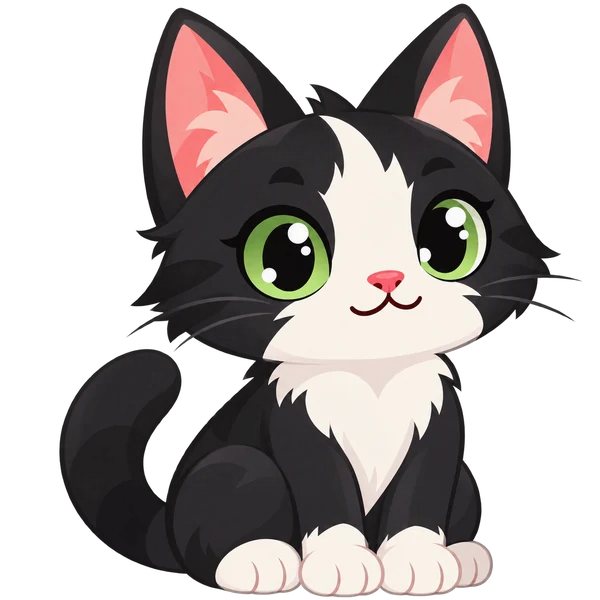
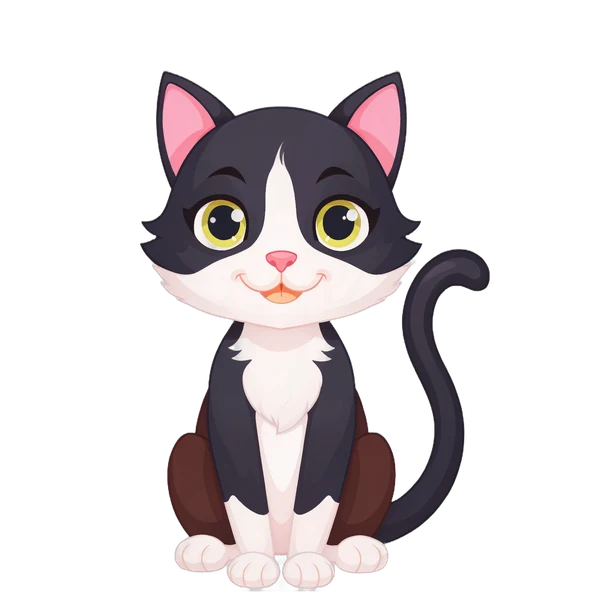
PLEX PLAY 1.16.2: 12 ilustraciones nuevas de gatos con uniforme original y accesorios calibrados por gato
Claude-Session: https://claude.ai/code/session_01BYK6TttEmKGVnbueoshFmr

diff --git a/index.html b/index.html
@@ -3065,7 +3065,7 @@ Règle du cours : ${stripTags(it.why||"")}`;try{await sample(prompt,{modelTier:"
 <li>Heures : <i>onze heures dix</i> = 11 h 10 ; <i>midi et demi</i> = 12 h 30.</li>
 <li>Proportions : <i>trente pour cent d'entre eux, plus de la moitié, un sur trois</i>.</li>
 <li><i>X contre Y l'année précédente</i> : passage de Y à X.</li>
-<li>Notez toujours en chiffres pendant l'écoute.</li></ul>`,items:{0:{ask:"Écoutez l'annonce, puis choisissez la date exacte. Attention au jour et au nombre.",ctx:"Un secrétariat d'université annonce la date de l'épreuve écrite.",why:"On entend <i>le mercredi trois septembre</i> → <b>mercredi 3 septembre</b>. Ne confondez pas <i>trois</i> avec <i>treize</i> (13) ou <i>vingt-trois</i> (23), ni <i>mercredi</i> avec <i>mardi</i>."},1:{ask:"Écoutez l'annonce, puis choisissez l'heure du rendez-vous.",ctx:"On vous donne rendez-vous pour une séance de préparation à l'oral.",q:"À quelle heure est le rendez-vous ?",why:"<i>Onze heures dix</i> = <b>11 h 10</b> : le premier nombre donne l'heure, le second les minutes. <i>10 h 11</i> inverse l'ordre ; <i>11 h 20</i> serait <i>onze heures vingt</i>."},2:{ask:"Écoutez la phrase, puis écrivez <b>seulement le pourcentage en chiffres</b>, sans le symbole %.",ctx:"Un reportage sur la santé des étudiants présente une statistique sur le stress.",why:"<i>Trente pour cent d'entre eux</i> = <b>30</b> % : près d'un étudiant sur trois. <i>D'entre eux</i> indique une partie d'un groupe (<i>de entre ellos</i> en espagnol : même idée)."},3:{ask:"Écoutez la phrase, puis choisissez l'évolution correcte : quelle est la valeur de départ et quelle est la valeur d'arrivée ?",ctx:"Un journaliste commente le baromètre annuel sur le bonheur au travail.",q:"Quelle évolution du nombre de salariés heureux avez-vous entendue ?",why:"On entend <i>69 % … contre 77 % l'année précédente</i> : l'année précédente, on était à 77 %, aujourd'hui à 69 % → <b>de 77 % à 69 %</b>, une baisse. <i>Contre</i> introduit l'ancienne valeur ; l'erreur typique est de suivre l'ordre d'écoute (69 puis 77)."},4:{ask:"Écoutez la phrase, puis choisissez la proportion de salariés concernés par le télétravail.",ctx:"Un reportage présente le télétravail dans l'entreprise Alcatel.",q:"Quelle proportion des effectifs d'Alcatel télétravaille ?",why:"<i>Vingt-cinq pour cent</i> = <b>25 %</b>, soit un quart des effectifs. Ne confondez pas avec <i>trente-cinq</i> (35) ou <i>soixante-quinze</i> (75)."},5:{ask:"Écoutez la phrase, puis choisissez la fourchette (entre deux valeurs) que vous avez entendue.",ctx:"Un sociologue parle des Français qui refusent d'avoir la télévision chez eux.",why:"<i>Deux à trois pour cent</i> = <b>2 à 3 %</b> : une toute petite minorité. <i>Douze</i> (12) et <i>vingt-deux</i> (22) commencent par un son différent ; écoutez bien le premier mot."},6:{ask:"Écoutez la phrase, puis choisissez la tranche d'âge des réfractaires les plus jeunes.",ctx:"Suite du reportage sur les Français qui refusent la télévision.",q:"Quel âge ont les plus jeunes réfractaires à la télévision ?",why:"<i>Entre vingt-cinq et trente-cinq ans</i> = <b>25-35 ans</b>. La structure <i>entre… et…</i> donne les deux limites de la tranche d'âge ; <i>soixante-cinq</i> (65) serait incohérent avec « les plus jeunes »."}}}};LESSONS.forEach(l=>{const p=LP[l.id];p&&(p.theory&&(l.theory=p.theory),(l.items||[]).forEach((it,i)=>{const x=p.items&&p.items[i];x&&(x.ask&&(it.ask=x.ask),x.ctx&&(it.ctx=x.ctx),x.why&&(it.why=x.why),x.q&&!(it.k==="spot"||it.k==="listen")&&(it.q=x.q))}))})}();const _itemHTMLc=itemHTML;itemHTML=function(it,st){let out=_itemHTMLc(it,st);return!it||!it.ask?out:(it.k==="spot"&&(out=out.replace('<p class="q">Toca la palabra que contiene el error.</p>',"")),it.k==="listen"&&(out=out.replace(/<p class="q">(Escribe en cifras el número que oyes\.|Escribe lo que oyes\.)<\/p>/,"")),it.k==="order"&&!it.q&&(out=out.replace(/<p class="q">Ordena los elementos\.<\/p>/,"")),`<p class="ask">${it.ask}</p>`+(it.ctx?`<div class="ctx"><span>Contexto</span><p>${it.ctx}</p></div>`:"")+out)},window.__UILANG="es";const APP_VERSION="1.16.1",DAY=864e5,dayN=(d=new Date)=>Math.round(new Date(d.getFullYear(),d.getMonth(),d.getDate()).getTime()/DAY),dayOfKey=k=>{const[y,m,d]=String(k).split("-").map(Number);return dayN(new Date(y,(m||1)-1,d||1))},SRS_INT=[1,1,3,7,14,30,60],isLessonKey=k=>/^[^:]+:\d+$/.test(k);function srsState(){return(!S.srs||typeof S.srs!="object")&&(S.srs={}),S.srs}function srsSeed(){const R=srsState();LESSONS.forEach(l=>{const r=S.lessons[l.id];if(!r||!r.done||!l.items)return;const base=r.at?dayOfKey(r.at):dayN();l.items.forEach((_,i)=>{const k=l.id+":"+i;R[k]||(R[k]={b:1,d:base+1,n:0})})})}function srsUpd(key,ok){const R=srsState(),v=R[key]||{b:0,d:dayN(),n:0};ok?(v.b=Math.min(v.b+1,SRS_INT.length-1),v.d=dayN()+SRS_INT[v.b]):(v.b=0,v.d=dayN()+1),v.n=(v.n||0)+1,R[key]=v}function srsDue(){const t=dayN(),R=srsState();return Object.keys(R).filter(k=>R[k].d<=t&&getItem(k)).sort((a,b)=>R[a].d-R[b].d||R[a].b-R[b].b)}function practiceKeys(){const due=srsDue().slice(0,12),err=Object.keys(S.carnet).filter(k=>getItem(k)&&!due.includes(k)).slice(0,Math.max(3,15-due.length));return due.concat(err)}function startPractice(){const keys=practiceKeys();if(!keys.length)return toast("No tienes repasos pendientes. ¡Vuelve mañana!");start({mode:"review",title:"Repaso del día",eyebrow:"Repaso espaciado · lo que toca repasar hoy",steps:shuffle(keys).map(k=>({kind:"item",key:k}))})}function lessonMastery(l){const n=(l.items||[]).length;if(!n)return null;const R=srsState(),t=dayN();let s=0,seen=0,due=0;return l.items.forEach((_,i)=>{const v=R[l.id+":"+i];if(!v)return;seen++;let b=Math.min(v.b,4);v.d<t&&(due++,t-v.d>SRS_INT[Math.min(v.b,6)]&&(b=Math.max(v.b>=1?1:0,b-1))),s+=b/4}),{pct:Math.round(s/n*100),seen,due}}const mLabel=p=>p>=80?"Dominada":p>=50?"Bien":p>0?"En progreso":"Por repasar",_pStreakBase=streak;streak=function(){const G=gEnsure(),g=G.goalXP,fz=new Set(G.frozen||[]),ok=d2=>dayXP(d2)>=g||fz.has(dkey(d2));let n=0;const d=new Date;for(ok(d)||d.setDate(d.getDate()-1);ok(d);)dayXP(d)>=g&&n++,d.setDate(d.getDate()-1);return n};function freezeApply(){const G=gEnsure();if(!(G.freeze>0))return;const g=G.goalXP,fz=new Set(G.frozen||[]),y=new Date;y.setDate(y.getDate()-1);const missed=[],d=new Date(y);for(let i=0;i<10&&!(dayXP(d)>=g||fz.has(dkey(d)));i++)missed.push(dkey(d)),d.setDate(d.getDate()-1);!missed.length||missed.length>G.freeze||(dayXP(d)>=g||fz.has(dkey(d)))&&(G.frozen=(G.frozen||[]).concat(missed).slice(-30),G.freeze-=missed.length,save(!0),setTimeout(()=>gModal(`<small class="gm-k">Protector de racha</small><div class="gm-badge" style="--c:#0EA5E9">${PRO_IC.shield}</div><h2 class="gm-t">Tu racha sigue viva</h2>
+<li>Notez toujours en chiffres pendant l'écoute.</li></ul>`,items:{0:{ask:"Écoutez l'annonce, puis choisissez la date exacte. Attention au jour et au nombre.",ctx:"Un secrétariat d'université annonce la date de l'épreuve écrite.",why:"On entend <i>le mercredi trois septembre</i> → <b>mercredi 3 septembre</b>. Ne confondez pas <i>trois</i> avec <i>treize</i> (13) ou <i>vingt-trois</i> (23), ni <i>mercredi</i> avec <i>mardi</i>."},1:{ask:"Écoutez l'annonce, puis choisissez l'heure du rendez-vous.",ctx:"On vous donne rendez-vous pour une séance de préparation à l'oral.",q:"À quelle heure est le rendez-vous ?",why:"<i>Onze heures dix</i> = <b>11 h 10</b> : le premier nombre donne l'heure, le second les minutes. <i>10 h 11</i> inverse l'ordre ; <i>11 h 20</i> serait <i>onze heures vingt</i>."},2:{ask:"Écoutez la phrase, puis écrivez <b>seulement le pourcentage en chiffres</b>, sans le symbole %.",ctx:"Un reportage sur la santé des étudiants présente une statistique sur le stress.",why:"<i>Trente pour cent d'entre eux</i> = <b>30</b> % : près d'un étudiant sur trois. <i>D'entre eux</i> indique une partie d'un groupe (<i>de entre ellos</i> en espagnol : même idée)."},3:{ask:"Écoutez la phrase, puis choisissez l'évolution correcte : quelle est la valeur de départ et quelle est la valeur d'arrivée ?",ctx:"Un journaliste commente le baromètre annuel sur le bonheur au travail.",q:"Quelle évolution du nombre de salariés heureux avez-vous entendue ?",why:"On entend <i>69 % … contre 77 % l'année précédente</i> : l'année précédente, on était à 77 %, aujourd'hui à 69 % → <b>de 77 % à 69 %</b>, une baisse. <i>Contre</i> introduit l'ancienne valeur ; l'erreur typique est de suivre l'ordre d'écoute (69 puis 77)."},4:{ask:"Écoutez la phrase, puis choisissez la proportion de salariés concernés par le télétravail.",ctx:"Un reportage présente le télétravail dans l'entreprise Alcatel.",q:"Quelle proportion des effectifs d'Alcatel télétravaille ?",why:"<i>Vingt-cinq pour cent</i> = <b>25 %</b>, soit un quart des effectifs. Ne confondez pas avec <i>trente-cinq</i> (35) ou <i>soixante-quinze</i> (75)."},5:{ask:"Écoutez la phrase, puis choisissez la fourchette (entre deux valeurs) que vous avez entendue.",ctx:"Un sociologue parle des Français qui refusent d'avoir la télévision chez eux.",why:"<i>Deux à trois pour cent</i> = <b>2 à 3 %</b> : une toute petite minorité. <i>Douze</i> (12) et <i>vingt-deux</i> (22) commencent par un son différent ; écoutez bien le premier mot."},6:{ask:"Écoutez la phrase, puis choisissez la tranche d'âge des réfractaires les plus jeunes.",ctx:"Suite du reportage sur les Français qui refusent la télévision.",q:"Quel âge ont les plus jeunes réfractaires à la télévision ?",why:"<i>Entre vingt-cinq et trente-cinq ans</i> = <b>25-35 ans</b>. La structure <i>entre… et…</i> donne les deux limites de la tranche d'âge ; <i>soixante-cinq</i> (65) serait incohérent avec « les plus jeunes »."}}}};LESSONS.forEach(l=>{const p=LP[l.id];p&&(p.theory&&(l.theory=p.theory),(l.items||[]).forEach((it,i)=>{const x=p.items&&p.items[i];x&&(x.ask&&(it.ask=x.ask),x.ctx&&(it.ctx=x.ctx),x.why&&(it.why=x.why),x.q&&!(it.k==="spot"||it.k==="listen")&&(it.q=x.q))}))})}();const _itemHTMLc=itemHTML;itemHTML=function(it,st){let out=_itemHTMLc(it,st);return!it||!it.ask?out:(it.k==="spot"&&(out=out.replace('<p class="q">Toca la palabra que contiene el error.</p>',"")),it.k==="listen"&&(out=out.replace(/<p class="q">(Escribe en cifras el número que oyes\.|Escribe lo que oyes\.)<\/p>/,"")),it.k==="order"&&!it.q&&(out=out.replace(/<p class="q">Ordena los elementos\.<\/p>/,"")),`<p class="ask">${it.ask}</p>`+(it.ctx?`<div class="ctx"><span>Contexto</span><p>${it.ctx}</p></div>`:"")+out)},window.__UILANG="es";const APP_VERSION="1.16.2",DAY=864e5,dayN=(d=new Date)=>Math.round(new Date(d.getFullYear(),d.getMonth(),d.getDate()).getTime()/DAY),dayOfKey=k=>{const[y,m,d]=String(k).split("-").map(Number);return dayN(new Date(y,(m||1)-1,d||1))},SRS_INT=[1,1,3,7,14,30,60],isLessonKey=k=>/^[^:]+:\d+$/.test(k);function srsState(){return(!S.srs||typeof S.srs!="object")&&(S.srs={}),S.srs}function srsSeed(){const R=srsState();LESSONS.forEach(l=>{const r=S.lessons[l.id];if(!r||!r.done||!l.items)return;const base=r.at?dayOfKey(r.at):dayN();l.items.forEach((_,i)=>{const k=l.id+":"+i;R[k]||(R[k]={b:1,d:base+1,n:0})})})}function srsUpd(key,ok){const R=srsState(),v=R[key]||{b:0,d:dayN(),n:0};ok?(v.b=Math.min(v.b+1,SRS_INT.length-1),v.d=dayN()+SRS_INT[v.b]):(v.b=0,v.d=dayN()+1),v.n=(v.n||0)+1,R[key]=v}function srsDue(){const t=dayN(),R=srsState();return Object.keys(R).filter(k=>R[k].d<=t&&getItem(k)).sort((a,b)=>R[a].d-R[b].d||R[a].b-R[b].b)}function practiceKeys(){const due=srsDue().slice(0,12),err=Object.keys(S.carnet).filter(k=>getItem(k)&&!due.includes(k)).slice(0,Math.max(3,15-due.length));return due.concat(err)}function startPractice(){const keys=practiceKeys();if(!keys.length)return toast("No tienes repasos pendientes. ¡Vuelve mañana!");start({mode:"review",title:"Repaso del día",eyebrow:"Repaso espaciado · lo que toca repasar hoy",steps:shuffle(keys).map(k=>({kind:"item",key:k}))})}function lessonMastery(l){const n=(l.items||[]).length;if(!n)return null;const R=srsState(),t=dayN();let s=0,seen=0,due=0;return l.items.forEach((_,i)=>{const v=R[l.id+":"+i];if(!v)return;seen++;let b=Math.min(v.b,4);v.d<t&&(due++,t-v.d>SRS_INT[Math.min(v.b,6)]&&(b=Math.max(v.b>=1?1:0,b-1))),s+=b/4}),{pct:Math.round(s/n*100),seen,due}}const mLabel=p=>p>=80?"Dominada":p>=50?"Bien":p>0?"En progreso":"Por repasar",_pStreakBase=streak;streak=function(){const G=gEnsure(),g=G.goalXP,fz=new Set(G.frozen||[]),ok=d2=>dayXP(d2)>=g||fz.has(dkey(d2));let n=0;const d=new Date;for(ok(d)||d.setDate(d.getDate()-1);ok(d);)dayXP(d)>=g&&n++,d.setDate(d.getDate()-1);return n};function freezeApply(){const G=gEnsure();if(!(G.freeze>0))return;const g=G.goalXP,fz=new Set(G.frozen||[]),y=new Date;y.setDate(y.getDate()-1);const missed=[],d=new Date(y);for(let i=0;i<10&&!(dayXP(d)>=g||fz.has(dkey(d)));i++)missed.push(dkey(d)),d.setDate(d.getDate()-1);!missed.length||missed.length>G.freeze||(dayXP(d)>=g||fz.has(dkey(d)))&&(G.frozen=(G.frozen||[]).concat(missed).slice(-30),G.freeze-=missed.length,save(!0),setTimeout(()=>gModal(`<small class="gm-k">Protector de racha</small><div class="gm-badge" style="--c:#0EA5E9">${PRO_IC.shield}</div><h2 class="gm-t">Tu racha sigue viva</h2>
     <p class="gm-sub">Usaste ${missed.length===1?"un protector":missed.length+" protectores"} para cubrir ${missed.length===1?"el día que faltaste":"los días que faltaste"}. Te ${G.freeze===1?"queda 1":"quedan "+G.freeze}.</p>
     <button class="gbtn wide" data-g="close" data-autofocus>Continuar</button>`,"m-freeze"),600))}const _pAfter=gAfterProgress;gAfterProgress=function(){const G=gEnsure(),st=streak();return st>0&&st%7===0&&G.freezeAwardAt!==st&&(G.freeze||0)<2&&(G.freeze=(G.freeze||0)+1,G.freezeAwardAt=st,setTimeout(()=>toast("¡"+st+" días seguidos! Ganaste un protector de racha."),900)),_pAfter.apply(this,arguments)};const _pWeekDots=weekDots;weekDots=function(){const r=_pWeekDots(),fz=new Set(gEnsure().frozen||[]),now=new Date,dow=(now.getDay()+6)%7,mon=new Date(now);return mon.setDate(now.getDate()-dow),r.map((x,i)=>{const d=new Date(mon);return d.setDate(mon.getDate()+i),fz.has(dkey(d))?Object.assign({},x,{st:"frz"}):x})};const _pRecord=record;record=function(st,it,ok){const before=P?P.newCarnet:0,plc=P&&P.mode==="placement";_pRecord.apply(this,arguments);try{if(plc){const last=P.steps[P.steps.length-1];last&&last.retry&&last.key===st.key&&P.steps.pop(),P.newCarnet>before&&(delete S.carnet[st.key],P.newCarnet=before),(P.plc||(P.plc={}))[P.i]=ok,save()}else!st.retry&&isLessonKey(st.key)&&getItem(st.key)&&(srsUpd(st.key,ok),save())}catch{}};const PLC_ORDER=["a1","a2","b11","b12","b21","rem","prog","c12","lit"];function startPlacement(){const steps=[];PLC_ORDER.forEach(tr=>{const pool=[];LESSONS.filter(l=>l.track===tr&&!l.special&&!l.project&&l.items).forEach(l=>l.items.forEach((it,i)=>{it.k==="choice"&&it.o&&it.o.length>=3&&pool.push({key:l.id+":"+i,u:tr})})),shuffle(pool).slice(0,tr==="rem"||tr==="prog"?3:2).forEach(p=>steps.push({kind:"item",key:p.key,u:p.u}))}),steps.length&&start({mode:"placement",title:"Prueba de nivel",eyebrow:"Prueba de nivel · de A1 a C1 · sin vidas: responde lo que sepas",steps})}function placementResult(){const byU={};P.steps.forEach((s,i)=>{if(!s.u)return;const b=byU[s.u]||(byU[s.u]={n:0,ok:0});b.n++,P.plc&&P.plc[i]&&b.ok++});const tracks=PLC_ORDER.filter(t=>byU[t]);let course=tracks.find(t=>byU[t].ok/byU[t].n<.75)||tracks[tracks.length-1];const weak=tracks.filter(t=>byU[t].ok<byU[t].n),nl=LESSONS.find(x=>x.track===course&&!x.special&&!(S.lessons[x.id]&&S.lessons[x.id].done)),tot=Object.values(byU).reduce((a,v)=>a+v.n,0),ok=Object.values(byU).reduce((a,v)=>a+v.ok,0);return{at:dkey(),pct:tot?Math.round(ok/tot*100):0,weak,course,byU,rec:nl?[nl.id]:[],units:tracks.length}}function guideData(){const out=[];return LESSONS.filter(l=>COURSE_IDS.has(l.track)&&!l.special&&l.theory).forEach(l=>{const m=/<p><b>(?:À retenir|Para recordar)<\/b><\/p>\s*<ul>([\s\S]*?)<\/ul>/.exec(l.theory);m&&out.push({l,html:"<ul>"+m[1]+"</ul>",txt:(l.title+" "+l.unit+" "+m[1].replace(/<[^>]+>/g," ")).toLowerCase()})}),out}let guideQ="";function gGuia(){const data=guideData(),q=guideQ.trim().toLowerCase(),list=data.filter(d=>!q||d.txt.includes(q));let lastU="";const items=list.map(d=>{const u=((TRACKS.find(t=>t.id===d.l.track)||{}).label||d.l.sec)+" · "+d.l.unit,head=u!==lastU?`<h3 class="gd-u">${gh(u)}</h3>`:"";lastU=u;const m=lessonMastery(d.l);return head+`<article class="gcard gd-card" lang="fr"><div class="gd-h"><b>${gh(d.l.title)}</b>${m&&m.seen?`<span class="mst-t">${mLabel(m.pct)} · ${m.pct} %</span>`:""}</div>${d.html}
       <div class="gd-a" lang="es"><button class="gbtn ghost sm" data-open="${d.l.id}">Repasar la lección</button></div></article>`}).join("");return`<section class="gview gguia"><h1>Guía rápida</h1>
@@ -3289,6 +3289,6 @@ Règle du cours : ${stripTags(it.why||"")}`;try{await sample(prompt,{modelTier:"
 <script src="js/plx22.js?v=b2dfe5ae"></script>
 <script src="js/plx23.js?v=fcf8ff67"></script>
 
-<script src="js/plx24.js?v=f6b5c20c"></script><script src="js/plx25.js?v=40d05c40"></script><script src="js/plx26.js?v=8cb72720"></script><script src="js/plx27.js?v=613fcb02"></script><script src="js/plx28.js?v=64812249"></script><script src="js/plx29.js?v=2726091d"></script><script src="js/plx30.js?v=0fda45c5"></script><script src="js/plx31.js?v=83efacbc"></script><script src="js/plx32.js?v=338f15e0"></script><script src="js/plx33.js?v=abe702ee"></script><script>"serviceWorker"in navigator&&location.protocol!=="file:"&&addEventListener("load",()=>navigator.serviceWorker.register("sw.js").then(r=>{window.__plxReg=r;r.addEventListener("updatefound",()=>{const w=r.installing;w&&w.addEventListener("statechange",()=>{w.state==="installed"&&navigator.serviceWorker.controller&&(window.__plxUpd=1,dispatchEvent(new Event("plx-update")))})})}).catch(()=>{}));
+<script src="js/plx24.js?v=f6b5c20c"></script><script src="js/plx25.js?v=40d05c40"></script><script src="js/plx26.js?v=8cb72720"></script><script src="js/plx27.js?v=613fcb02"></script><script src="js/plx28.js?v=64812249"></script><script src="js/plx29.js?v=2726091d"></script><script src="js/plx30.js?v=0fda45c5"></script><script src="js/plx31.js?v=83efacbc"></script><script src="js/plx32.js?v=338f15e0"></script><script src="js/plx33.js?v=c45a0c44"></script><script>"serviceWorker"in navigator&&location.protocol!=="file:"&&addEventListener("load",()=>navigator.serviceWorker.register("sw.js").then(r=>{window.__plxReg=r;r.addEventListener("updatefound",()=>{const w=r.installing;w&&w.addEventListener("statechange",()=>{w.state==="installed"&&navigator.serviceWorker.controller&&(window.__plxUpd=1,dispatchEvent(new Event("plx-update")))})})}).catch(()=>{}));
 </script>
 </html>

diff --git a/sw.js b/sw.js
@@ -1,6 +1,6 @@
 /* PLEX PLAY — service worker (v1.11.0) */
-const CORE="pc-core-1.16.1", AUDIO="pc-audio-1";
-const PRECACHE=["./", "index.html", "fonts/figtree-latin.woff2", "fonts/figtree-latin-ext.woff2", "fonts/bricolage-latin.woff2", "fonts/bricolage-latin-ext.woff2", "cursos.js", "explica.js", "audio2.js", "extra.js", "js/plx18.js", "js/plx19.js", "js/plx20.js", "js/plx21.js", "js/plx22.js", "js/plx23.js", "js/plx24.js", "js/plx25.js", "js/plx26.js", "js/plx27.js", "js/plx28.js", "js/plx29.js", "js/plx30.js", "js/plx31.js", "js/plx32.js", "js/plx33.js", "carnet.html", "config.js", "backend.js", "vendor/supabase.js", "manifest.webmanifest", "privacy.html", "icons/mz-icon-192.png", "icons/mz-icon-512.png", "icons/mz-maskable-512.png", "icons/mz-apple-touch-icon.png", "icons/mz-favicon-32.png", "img/atras.webp", "img/b-bronce.webp", "img/b-diamante.webp", "img/b-legendario.webp", "img/b-oro.webp", "img/b-plata.webp", "img/bg-biblioteca.webp", "img/bg-cafe.webp", "img/bg-montana.webp", "img/bg-noche.webp", "img/bg-paris.webp", "img/bg-playa.webp", "img/bg-universidad.webp", "img/bloqueado.webp", "img/calendario.webp", "img/card-dia.webp", "img/card-noche.webp", "img/completado.webp", "img/conversacion.webp", "img/crown.webp", "img/d-bench.webp", "img/d-bridge.webp", "img/d-cloud.webp", "img/d-flowers.webp", "img/d-lamp.webp", "img/d-leaves.webp", "img/d-sign.webp", "img/d-sparkle.webp", "img/d-trees.webp", "img/dificil.webp", "img/encurso.webp", "img/escritura.webp", "img/escucha.webp", "img/escudo.webp", "img/estrella.webp", "img/facil.webp", "img/favorito.webp", "img/flame.webp", "img/gear.webp", "img/gem.webp", "img/gramatica.webp", "img/guardar.webp", "img/hito.webp", "img/home.webp", "img/lecciones.webp", "img/lectura.webp", "img/logro.webp", "img/m-actualidad.webp", "img/m-cafe.webp", "img/m-cultura.webp", "img/m-francia.webp", "img/m-inicio.webp", "img/m-trabajo.webp", "img/m-viajes.webp", "img/manzana-icon.webp", "img/mascota.webp", "img/media.webp", "img/music.webp", "img/mz-curioso.webp", "img/mz-duerme.webp", "img/mz-feliz.webp", "img/mz-gafas.webp", "img/mz-hero.webp", "img/mz-hola.webp", "img/mz-juega.webp", "img/mz-lado.webp", "img/mz-vamos.webp", "img/pausa.webp", "img/perfil.webp", "img/regalo.webp", "img/repetir.webp", "img/reto.webp", "img/retos.webp", "img/siguiente.webp", "img/stats.webp", "img/c-paris.webp", "img/c-cafe.webp", "img/c-fonetica.webp", "img/c-calle.webp", "img/c-playa.webp", "img/c-montana.webp", "img/c-bandera.webp", "img/c-libros.webp", "img/c-noche.webp", "img/c-teatro.webp", "img/th-acentos.webp", "img/th-fonetica.webp", "img/th-fundamentos.webp", "img/th-literatura.webp", "img/tienda.webp", "img/vida-off.webp", "img/vida.webp", "img/gatos/esmoquin.webp", "img/gatos/azul-ruso.webp", "img/gatos/plateado.webp"];
+const CORE="pc-core-1.16.2", AUDIO="pc-audio-1";
+const PRECACHE=["./", "index.html", "fonts/figtree-latin.woff2", "fonts/figtree-latin-ext.woff2", "fonts/bricolage-latin.woff2", "fonts/bricolage-latin-ext.woff2", "cursos.js", "explica.js", "audio2.js", "extra.js", "js/plx18.js", "js/plx19.js", "js/plx20.js", "js/plx21.js", "js/plx22.js", "js/plx23.js", "js/plx24.js", "js/plx25.js", "js/plx26.js", "js/plx27.js", "js/plx28.js", "js/plx29.js", "js/plx30.js", "js/plx31.js", "js/plx32.js", "js/plx33.js", "carnet.html", "config.js", "backend.js", "vendor/supabase.js", "manifest.webmanifest", "privacy.html", "icons/mz-icon-192.png", "icons/mz-icon-512.png", "icons/mz-maskable-512.png", "icons/mz-apple-touch-icon.png", "icons/mz-favicon-32.png", "img/atras.webp", "img/b-bronce.webp", "img/b-diamante.webp", "img/b-legendario.webp", "img/b-oro.webp", "img/b-plata.webp", "img/bg-biblioteca.webp", "img/bg-cafe.webp", "img/bg-montana.webp", "img/bg-noche.webp", "img/bg-paris.webp", "img/bg-playa.webp", "img/bg-universidad.webp", "img/bloqueado.webp", "img/calendario.webp", "img/card-dia.webp", "img/card-noche.webp", "img/completado.webp", "img/conversacion.webp", "img/crown.webp", "img/d-bench.webp", "img/d-bridge.webp", "img/d-cloud.webp", "img/d-flowers.webp", "img/d-lamp.webp", "img/d-leaves.webp", "img/d-sign.webp", "img/d-sparkle.webp", "img/d-trees.webp", "img/dificil.webp", "img/encurso.webp", "img/escritura.webp", "img/escucha.webp", "img/escudo.webp", "img/estrella.webp", "img/facil.webp", "img/favorito.webp", "img/flame.webp", "img/gear.webp", "img/gem.webp", "img/gramatica.webp", "img/guardar.webp", "img/hito.webp", "img/home.webp", "img/lecciones.webp", "img/lectura.webp", "img/logro.webp", "img/m-actualidad.webp", "img/m-cafe.webp", "img/m-cultura.webp", "img/m-francia.webp", "img/m-inicio.webp", "img/m-trabajo.webp", "img/m-viajes.webp", "img/manzana-icon.webp", "img/mascota.webp", "img/media.webp", "img/music.webp", "img/mz-curioso.webp", "img/mz-duerme.webp", "img/mz-feliz.webp", "img/mz-gafas.webp", "img/mz-hero.webp", "img/mz-hola.webp", "img/mz-juega.webp", "img/mz-lado.webp", "img/mz-vamos.webp", "img/pausa.webp", "img/perfil.webp", "img/regalo.webp", "img/repetir.webp", "img/reto.webp", "img/retos.webp", "img/siguiente.webp", "img/stats.webp", "img/c-paris.webp", "img/c-cafe.webp", "img/c-fonetica.webp", "img/c-calle.webp", "img/c-playa.webp", "img/c-montana.webp", "img/c-bandera.webp", "img/c-libros.webp", "img/c-noche.webp", "img/c-teatro.webp", "img/th-acentos.webp", "img/th-fonetica.webp", "img/th-fundamentos.webp", "img/th-literatura.webp", "img/tienda.webp", "img/vida-off.webp", "img/vida.webp", "img/gatos/azul-ruso.webp", "img/gatos/bengali.webp", "img/gatos/chocolate.webp", "img/gatos/crema.webp", "img/gatos/esfinge.webp", "img/gatos/esmoquin.webp", "img/gatos/galaxia.webp", "img/gatos/humo.webp", "img/gatos/lava.webp", "img/gatos/lila.webp", "img/gatos/naranja.webp", "img/gatos/plateado.webp", "img/gatos/van-turco.webp"];
 self.addEventListener("install",e=>{ e.waitUntil(caches.open(CORE).then(c=>c.addAll(PRECACHE)).then(()=>self.skipWaiting())); });
 self.addEventListener("activate",e=>{ e.waitUntil(caches.keys().then(ks=>Promise.all(ks.filter(k=>k!==CORE&&k!==AUDIO).map(k=>caches.delete(k)))).then(()=>self.clients.claim())); });
 self.addEventListener("fetch",e=>{

diff --git a/js/plx33.js b/js/plx33.js
@@ -147,7 +147,7 @@
   var AFILE={gafassol:"gafas-sol"};
   var HAVE={g:{},a:{}}, ANY=false;
   function coatFile(k){ return FILE[k]||k; }
-  try{ fetch("img/gatos/lista.json",{cache:"no-cache"}).then(function(r){ return r.ok?r.json():null; }).then(function(j){ if(!j) return; (j.gatos||[]).forEach(function(n){ HAVE.g[n]=1; }); (j.accesorios||[]).forEach(function(n){ HAVE.a[n]=1; }); ANY=Object.keys(HAVE.g).length>0; if(ANY) try{ render(); }catch(e){} }).catch(function(){}); }catch(e){}
+  try{ fetch("img/gatos/lista.json",{cache:"no-cache"}).then(function(r){ return r.ok?r.json():null; }).then(function(j){ if(!j) return; var G=j.gatos||[]; if(Array.isArray(G)) G.forEach(function(n){ HAVE.g[n]={m:[109.6,83.4,44.2],u:[114,118.8,185.7,78]}; }); else Object.keys(G).forEach(function(n){ HAVE.g[n]=G[n]; }); (j.accesorios||[]).forEach(function(n){ HAVE.a[n]=1; }); ANY=Object.keys(HAVE.g).length>0; if(ANY) try{ render(); }catch(e){} }).catch(function(){}); }catch(e){}
   var UNIF=function(){
     var U="#16171D",UD="#0E0F14";
     return '<path d="M53 136 Q39 150 42 168 L60 165 Q59 150 66 138 Z" fill="'+U+'"/><path d="M147 136 Q161 150 158 168 L140 165 Q141 150 134 138 Z" fill="'+U+'"/>'+
@@ -163,11 +163,13 @@
   var T_ACC='translate(24.6 -1.6) scale(.85)', T_UNI='translate(32.75 -1.25) scale(.8125 .984)';
   function rasterCat(g,o){
     var f=coatFile(g.coat||"gris"), mood=o.mood||"happy"; if(!HAVE.g[f]) return null;
-    var src=HAVE.g[f+"-"+mood]?f+"-"+mood:f, acc=g.acc||{}, pngOver="", svgAcc={};
+    var src=HAVE.g[f+"-"+mood]?f+"-"+mood:f, acc=g.acc||{}, pngOver="", svgAcc={}, C=HAVE.g[f];
+    var k=C.m[2]/52, T_ACC="translate("+(C.m[0]-100*k).toFixed(2)+" "+(C.m[1]-100*k).toFixed(2)+") scale("+k.toFixed(4)+")";
+    var sx=C.u[3]/96, sy=(C.u[2]-C.u[1])/68, T_UNI="translate("+(C.u[0]-100*sx).toFixed(2)+" "+(C.u[1]-122*sy).toFixed(2)+") scale("+sx.toFixed(4)+" "+sy.toFixed(4)+")";
     Object.keys(acc).forEach(function(slot){ var v=acc[slot]; if(!v||v==="sin"||slot==="body") return; var af=AFILE[v]||v; if(HAVE.a[af]) pngOver+='<image href="img/gatos/accesorios/'+af+'.webp" x="0" y="0" width="200" height="200"/>'; else svgAcc[slot]=v; });
     var P=Object.keys(svgAcc).length||o.sparkle?accParts(svgAcc,mood,o.sparkle):{back:"",front:""};
     var s='<svg viewBox="0 0 200 200" class="cat raster '+(o.cls||"")+'" role="img" aria-label="'+(o.label||"Gato")+'" xmlns="http://www.w3.org/2000/svg">';
-    s+='<ellipse cx="112" cy="195" rx="54" ry="5" fill="rgba(30,40,80,.13)"/>';
+    s+='<ellipse cx="'+C.m[0]+'" cy="195" rx="50" ry="5" fill="rgba(30,40,80,.13)"/>';
     if(P.back) s+='<g transform="'+T_ACC+'">'+P.back+'</g>';
     s+='<image href="img/gatos/'+src+'.webp" x="0" y="0" width="200" height="200"/>';
     if(acc.body!=="sin") s+='<g transform="'+T_UNI+'">'+UNIF()+'</g>';
